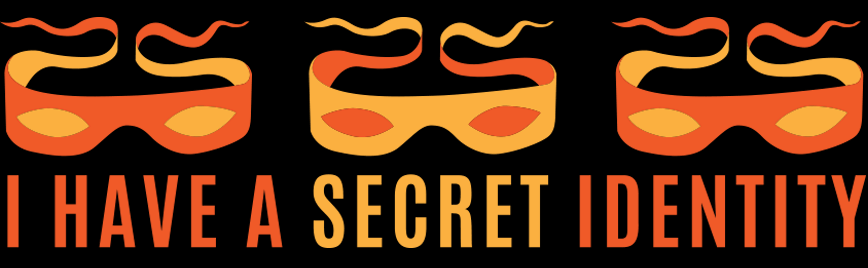
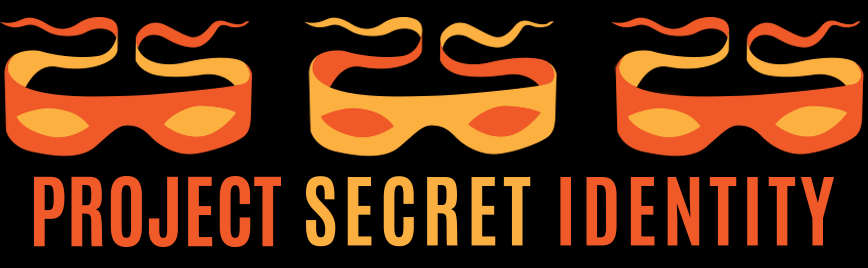
Updated header images & adjusted spacing of nav

Changed region(s): [[0.0, 0.6269, 1.0, 0.9254], [0.7465, 0.3284, 0.7776, 0.3582]]

diff --git a/css/secret.css b/css/secret.css
@@ -59,20 +59,20 @@ nav {
     background-color: #000;
     color: #f05a28;
     font-size: 14px;
-    padding: 0 4px 87px;
+    padding: 0 24px 87px;
     text-align: right;
 }
 
 @media screen and (max-width: 520px) {
     nav {
-        padding-top: 16px;
+        padding: 16px 0 87px;
         text-align: center;
     }
 }
 
 nav .centered {
     margin: 0 auto;
-    max-width: 868px;
+    max-width: 808px;
 }
 
 nav a {
